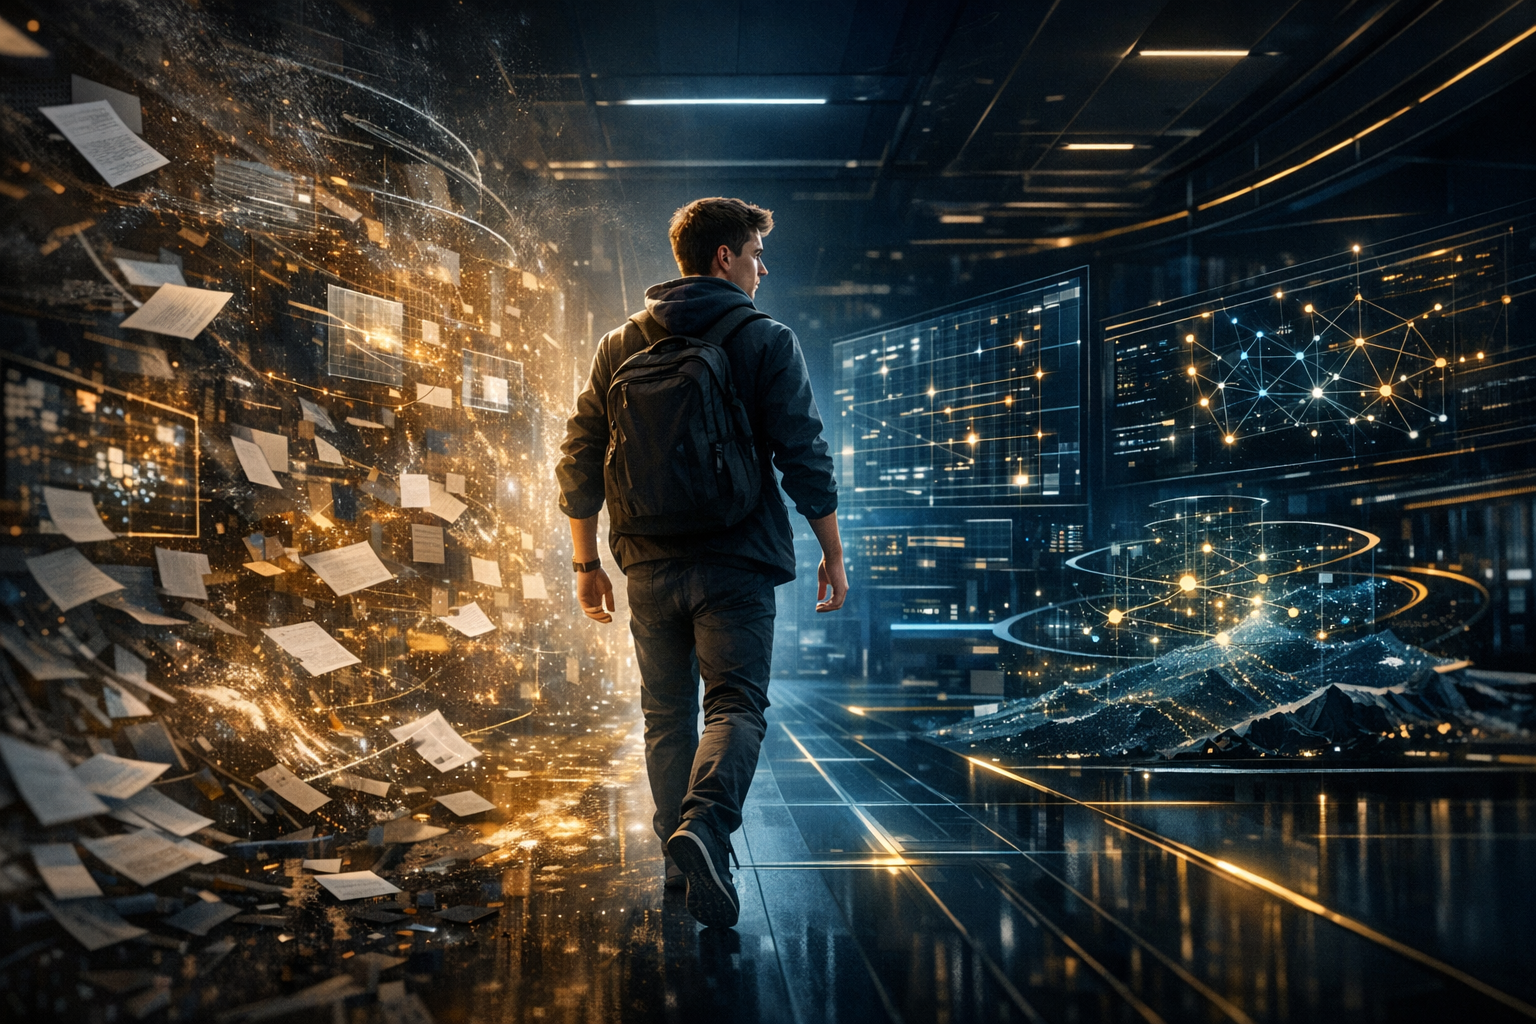
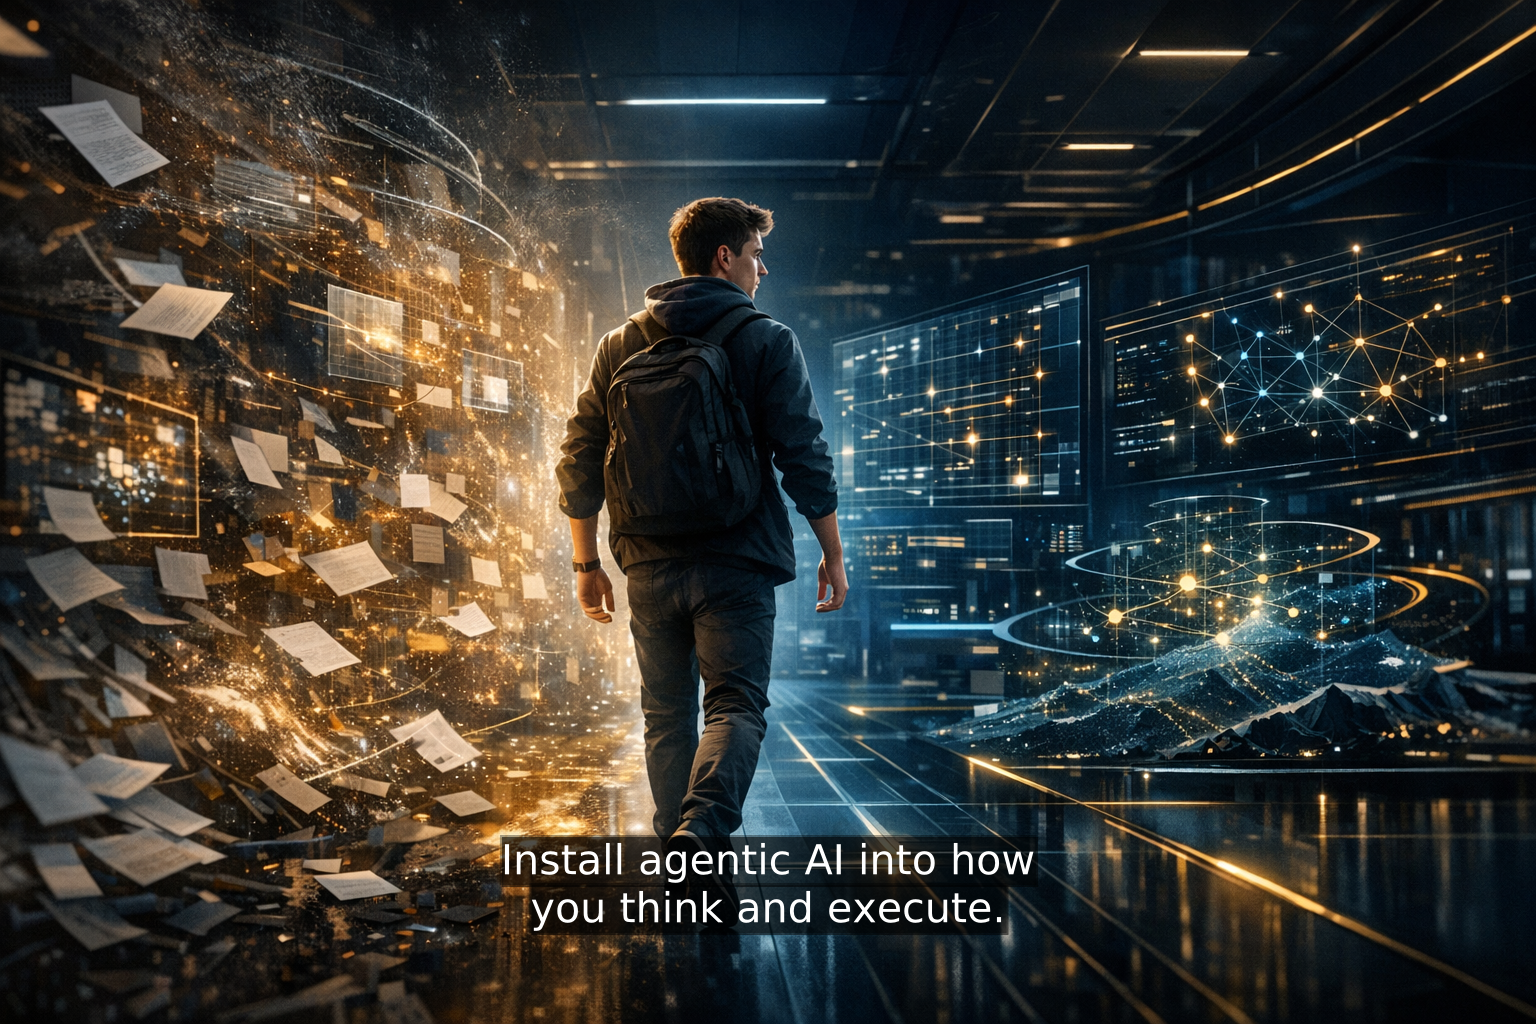
Add quote overlays to OG images

Changed region(s): [[0.3125, 0.8125, 0.6875, 0.9375]]

diff --git a/scripts/overlay-og-quotes.js b/scripts/overlay-og-quotes.js
@@ -1,0 +1,93 @@
+const fs = require('fs');
+const os = require('os');
+const path = require('path');
+const {execFileSync} = require('child_process');
+
+const configPath = path.join(__dirname, 'og-image-batch.json');
+const repoRoot = path.join(__dirname, '..');
+const config = JSON.parse(fs.readFileSync(configPath, 'utf8'));
+
+function wrapText(text, maxChars = 28) {
+  const words = text.split(/\s+/);
+  const lines = [];
+  let current = '';
+
+  for (const word of words) {
+    const next = current ? `${current} ${word}` : word;
+    if (next.length > maxChars && current) {
+      lines.push(current);
+      current = word;
+    } else {
+      current = next;
+    }
+  }
+
+  if (current) {
+    lines.push(current);
+  }
+
+  return lines.join('\n');
+}
+
+function escapeAssText(text) {
+  return text
+    .replace(/\\/g, '\\\\')
+    .replace(/\{/g, '\\{')
+    .replace(/\}/g, '\\}')
+    .replace(/\n/g, '\\N');
+}
+
+for (const image of config.images) {
+  if (!image.quote) {
+    continue;
+  }
+
+  const absoluteOutput = path.join(repoRoot, image.output);
+  const tempOutput = path.join(
+    os.tmpdir(),
+    `${path.basename(image.output, path.extname(image.output))}-quoted${path.extname(image.output)}`,
+  );
+  const subtitleFile = path.join(
+    os.tmpdir(),
+    `${path.basename(image.output, path.extname(image.output))}-quote.ass`,
+  );
+
+  const wrappedQuote = wrapText(image.quote);
+  const assText = `[Script Info]
+ScriptType: v4.00+
+PlayResX: 1536
+PlayResY: 1024
+WrapStyle: 2
+ScaledBorderAndShadow: yes
+
+[V4+ Styles]
+Format: Name, Fontname, Fontsize, PrimaryColour, SecondaryColour, OutlineColour, BackColour, Bold, Italic, Underline, StrikeOut, ScaleX, ScaleY, Spacing, Angle, BorderStyle, Outline, Shadow, Alignment, MarginL, MarginR, MarginV, Encoding
+Style: Quote,DejaVu Sans,48,&H00FFFFFF,&H00000000,&HAA000000,&H78000000,0,0,0,0,100,100,0,0,3,1,2,2,120,120,92,1
+
+[Events]
+Format: Layer, Start, End, Style, Name, MarginL, MarginR, MarginV, Effect, Text
+Dialogue: 0,0:00:00.00,0:00:05.00,Quote,,0,0,0,,${escapeAssText(wrappedQuote)}
+`;
+
+  fs.writeFileSync(subtitleFile, assText);
+
+  execFileSync(
+    'ffmpeg',
+    [
+      '-y',
+      '-i',
+      absoluteOutput,
+      '-vf',
+      `subtitles='${subtitleFile}'`,
+      '-frames:v',
+      '1',
+      tempOutput,
+    ],
+    {
+      stdio: 'inherit',
+      cwd: repoRoot,
+    },
+  );
+
+  fs.copyFileSync(tempOutput, absoluteOutput);
+}

diff --git a/scripts/generate-all-og.js b/scripts/generate-all-og.js
@@ -3,6 +3,7 @@ const path = require('path');
 
 const configPath = path.join(__dirname, 'og-image-batch.json');
 const generatorPath = path.join(__dirname, '..', '.gemini', 'skills', 'batch-image-generator', 'scripts', 'batch_generate.py');
+const overlayPath = path.join(__dirname, 'overlay-og-quotes.js');
 
 const result = spawnSync('python3', [generatorPath, '--config', configPath], {
   stdio: 'inherit',
@@ -12,4 +13,14 @@ const result = spawnSync('python3', [generatorPath, '--config', configPath], {
 
 if (result.status !== 0) {
   process.exit(result.status ?? 1);
+}
+
+const overlayResult = spawnSync('node', [overlayPath], {
+  stdio: 'inherit',
+  cwd: path.join(__dirname, '..'),
+  env: process.env,
+});
+
+if (overlayResult.status !== 0) {
+  process.exit(overlayResult.status ?? 1);
 }
